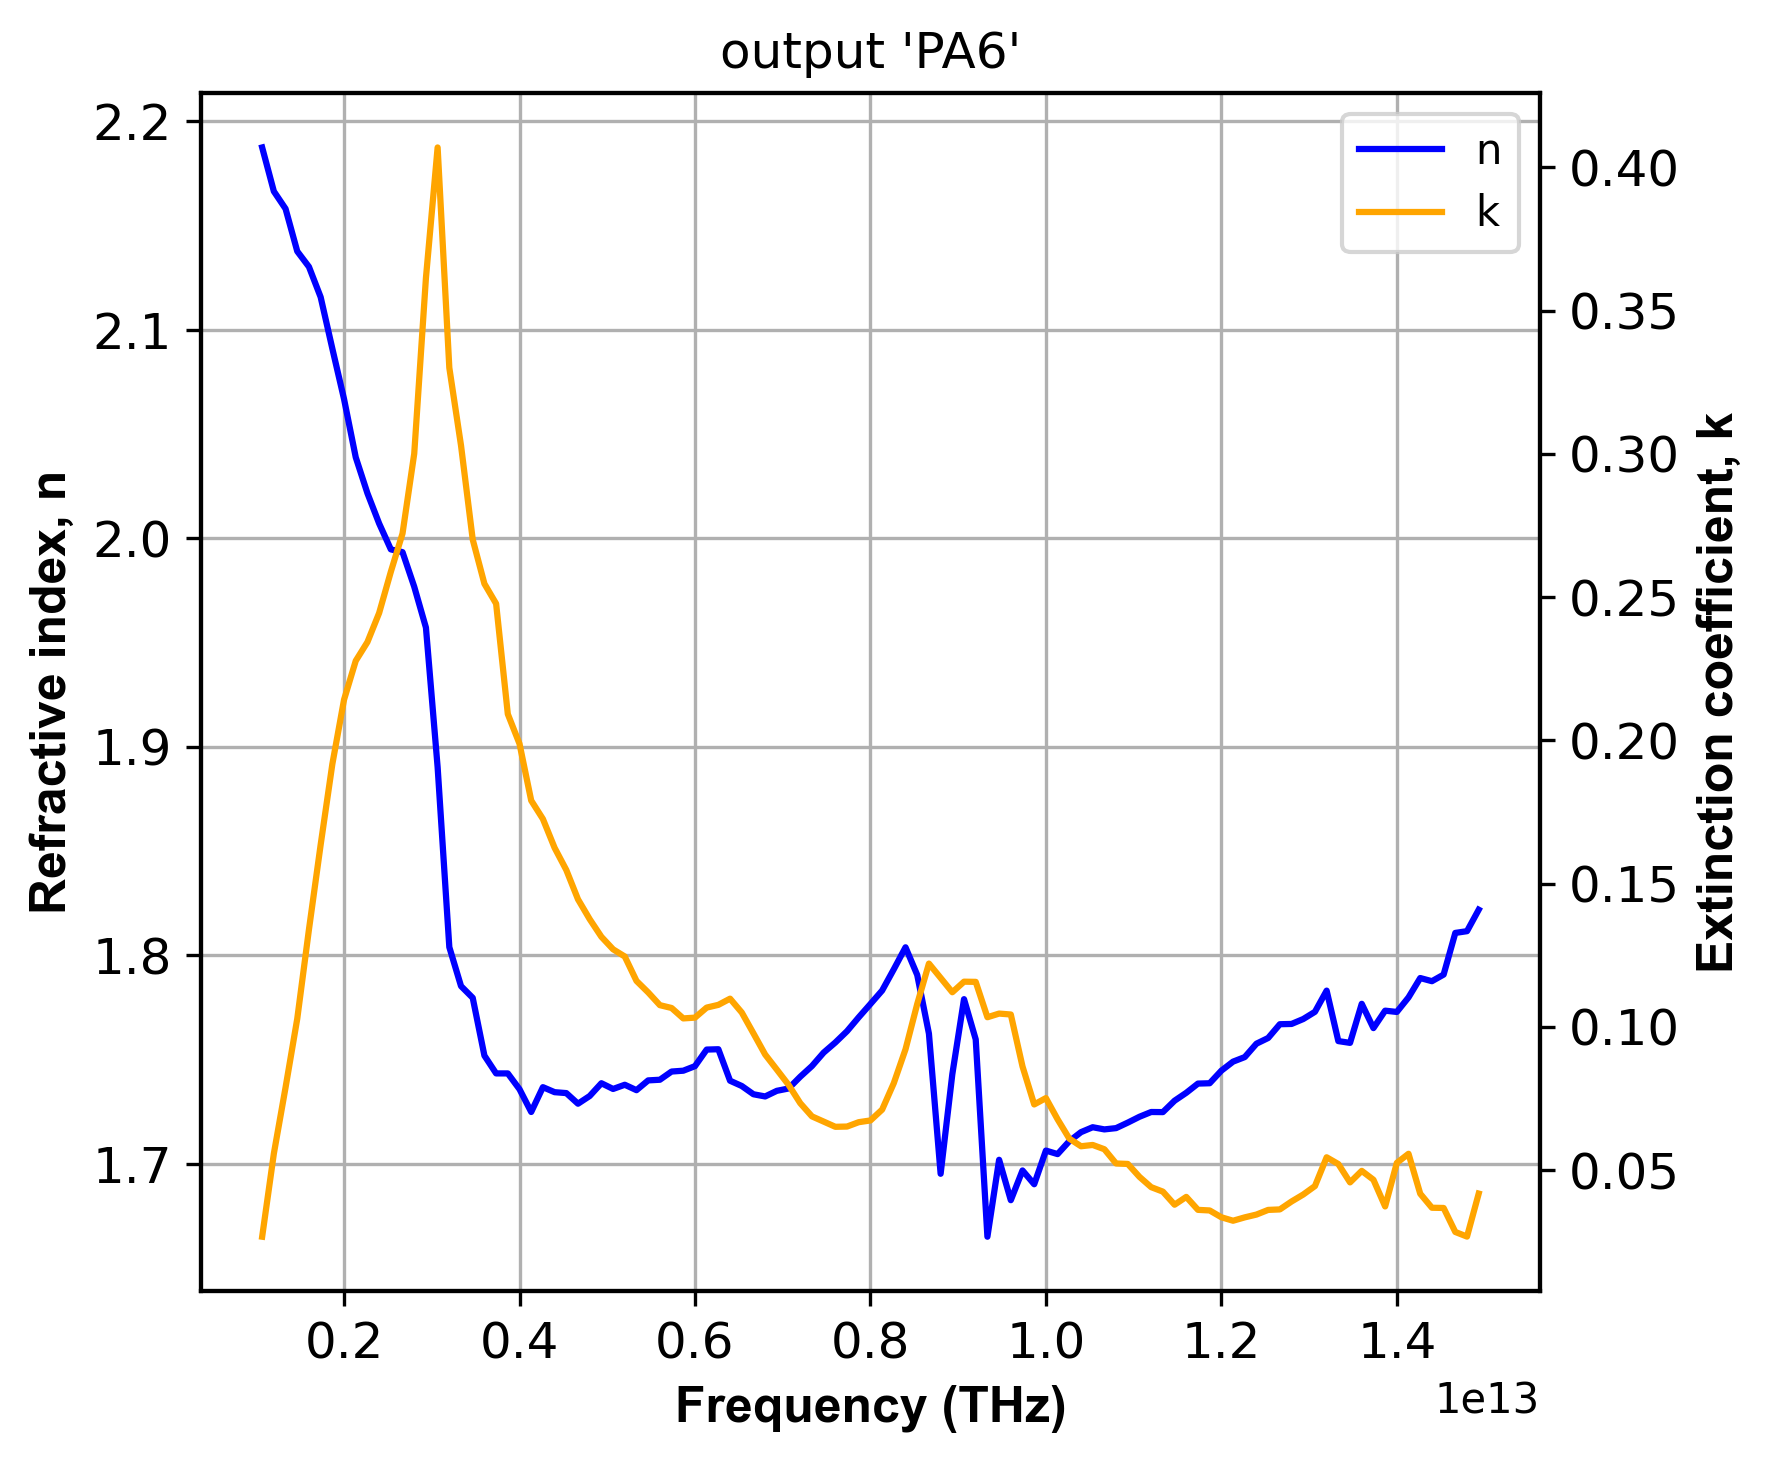
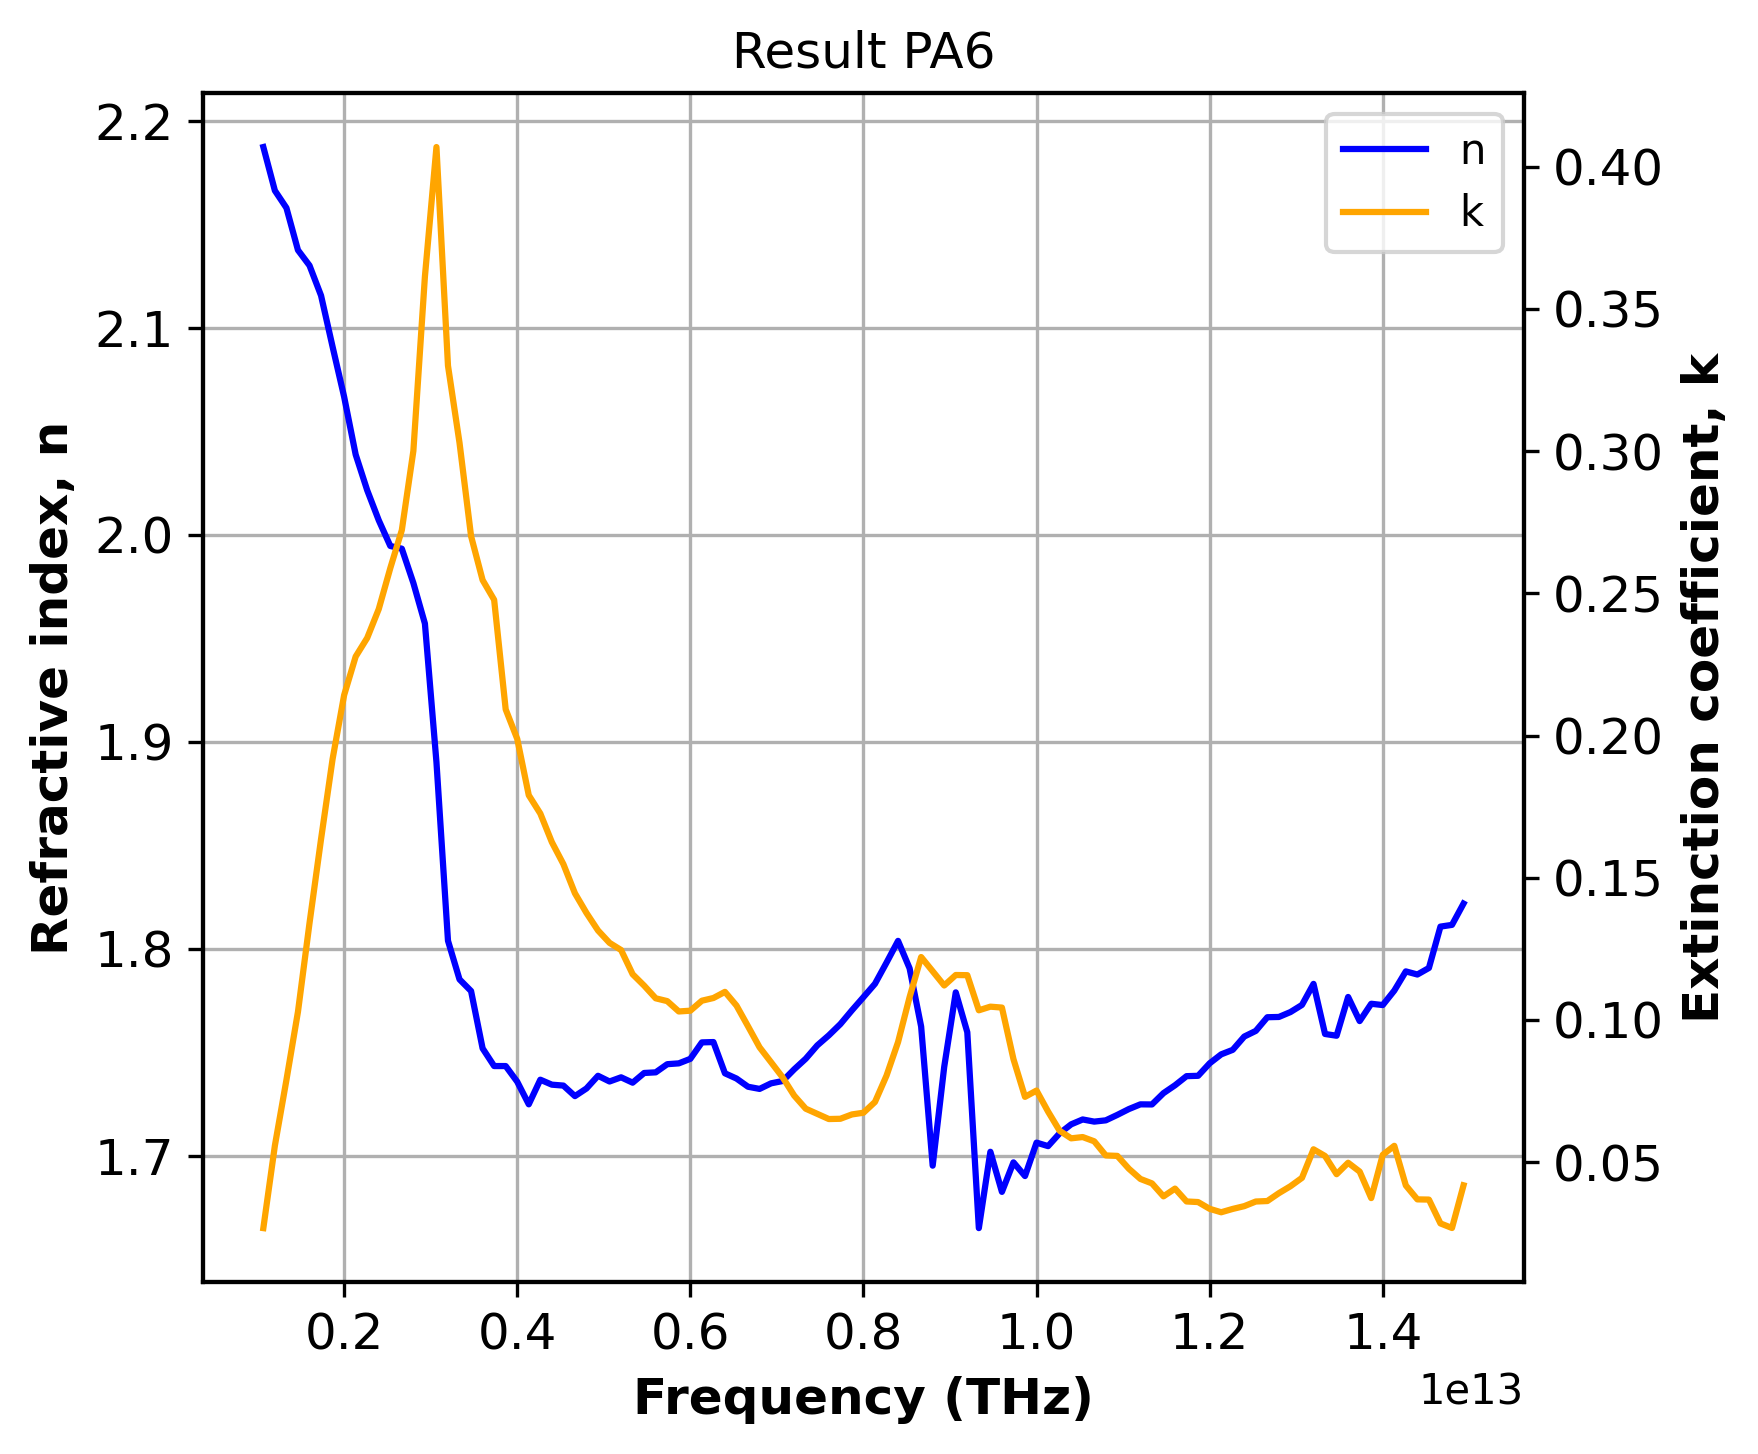
change title function

diff --git a/main.py b/main.py
@@ -566,8 +566,7 @@ def main(sample_name:str,
     scipy.io.savemat(f'Results/{sample_name}_result.mat',{'n':n+1j*k,'f':f,'error':error})
 
     fig, ax = plt.subplots(figsize=(6, 5))
-    plt.title(f'output {sample_name!r}')
-
+    ax.set_title(f"Result {sample_name}")
     ax.plot(f, n,color='blue', label="n")
     ax.set_xlabel('Frequency (THz)', fontsize=12, fontweight='bold', fontname='Arial')
     ax.set_ylabel('Refractive index, n', fontsize=12, fontweight='bold', fontname='Arial')
